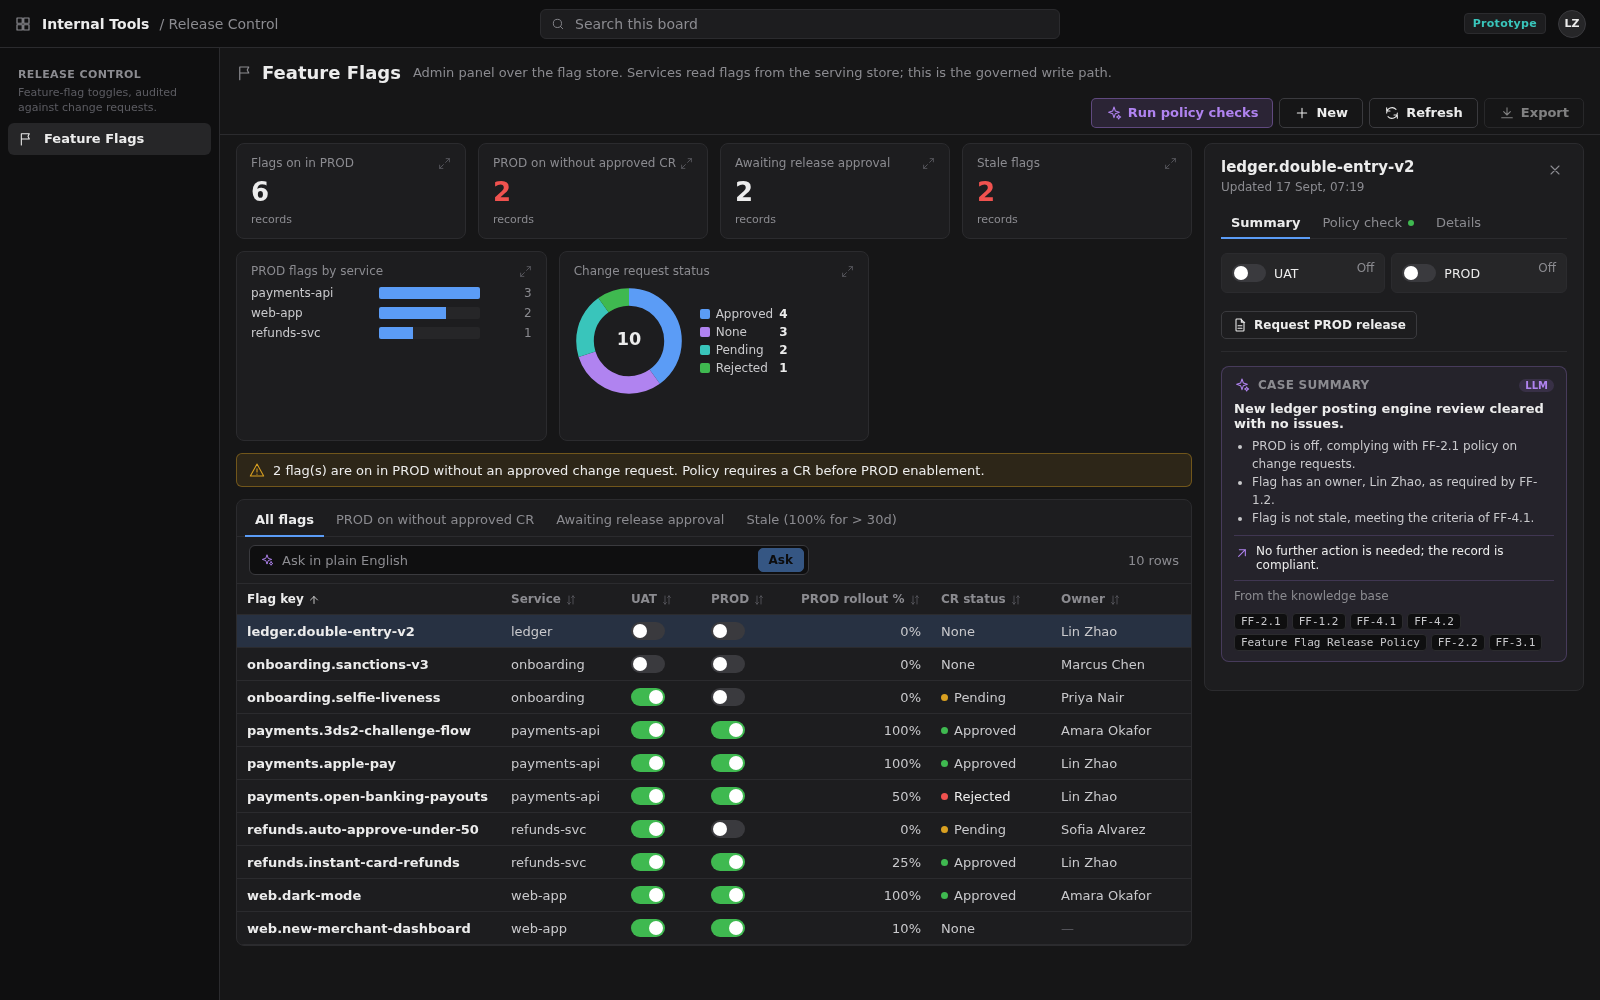
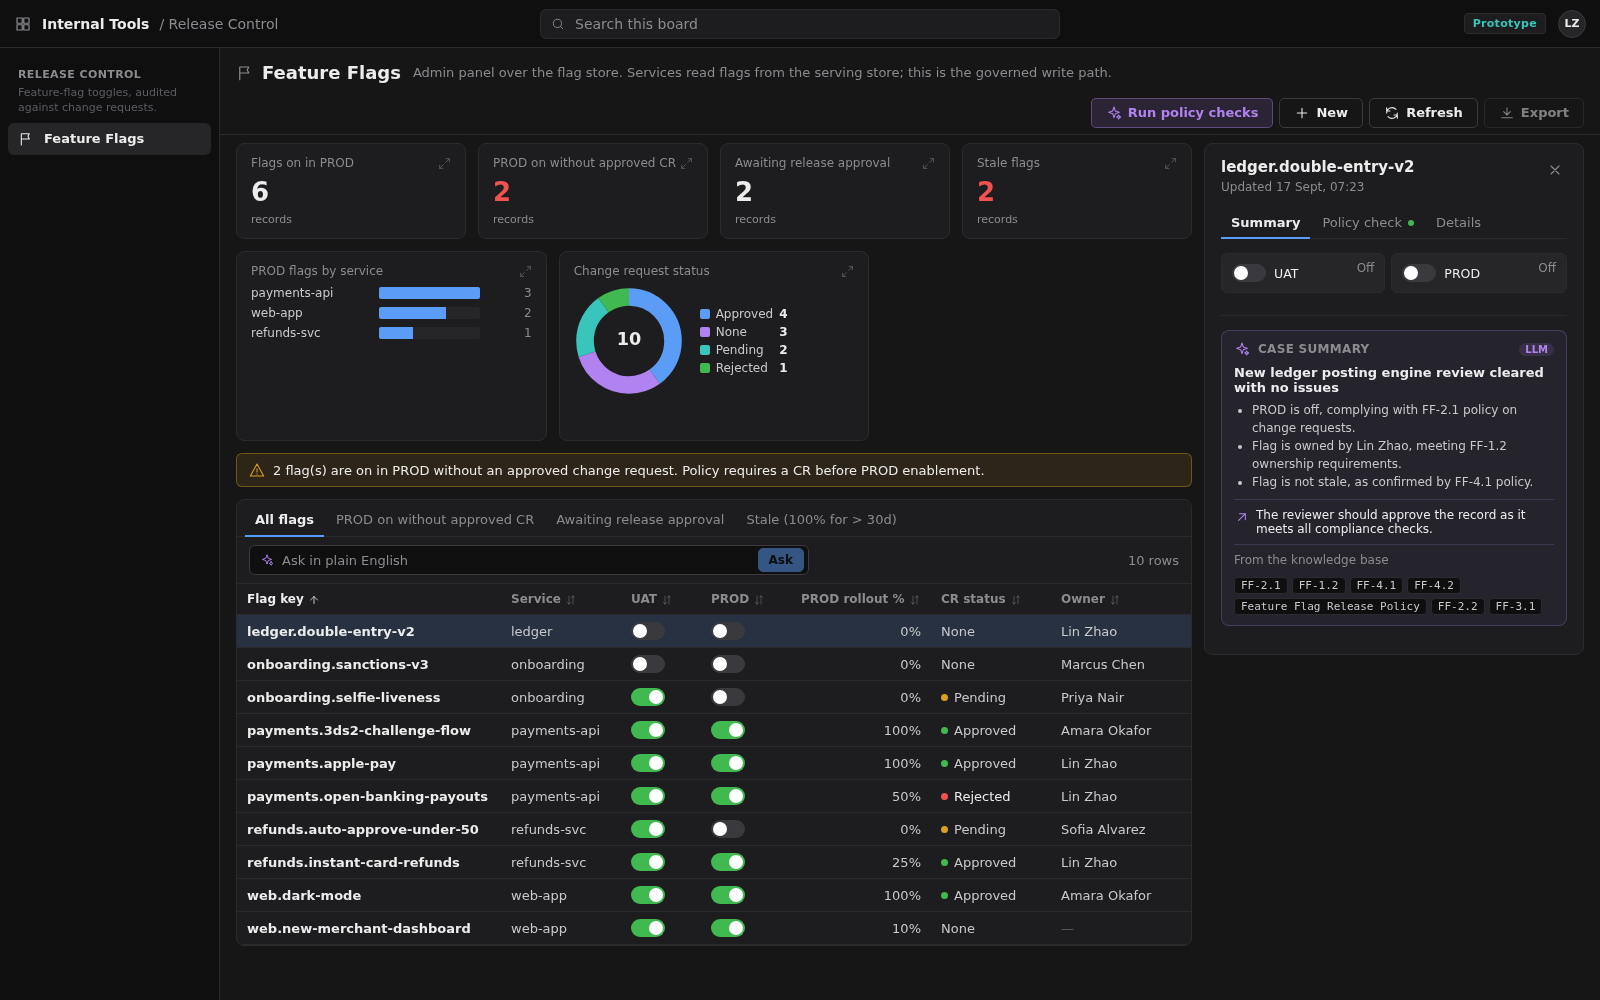
Remove Request PROD release action; CRs originate in change management

Changed region(s): [[0.75, 0.31, 0.9688, 0.651]]

diff --git a/tests/test_platform.py b/tests/test_platform.py
@@ -164,15 +164,17 @@ def test_webhook_action_logs_integration(client):
     assert log[0]["webhook"].endswith("/flag-store/sync") and log[0]["payload"]["title"] == flag["key"]
     review = client.get(f"/api/tools/flags/records/{rid}/review", headers=h("lin")).json()
     assert review["verdict"] == "Flagged" and any(c["clause"] == "FF-2.1" and not c["passed"] for c in review["checks"])
-    # CR approval stays a release-manager decision; engineer cannot approve their own
-    assert client.post("/api/tools/flags/actions/request_release", json={"record_id": rid, "comment": "ship it"}, headers=h("lin")).json()["cr_status"] == "Pending"
-    assert client.post("/api/tools/flags/actions/approve_cr", json={"record_id": rid}, headers=h("lin")).status_code == 403
-    assert client.post("/api/tools/flags/actions/approve_cr", json={"record_id": rid}, headers=h("amara")).json()["cr_status"] == "Approved"
-    review = client.get(f"/api/tools/flags/records/{rid}/review", headers=h("lin")).json()
-    assert all(c["passed"] for c in review["checks"] if c["clause"] == "FF-2.1")
     # kill switch is open to engineers too, but needs a comment
     assert client.post("/api/tools/flags/actions/kill_switch", json={"record_id": rid}, headers=h("lin")).status_code == 400
     assert client.post("/api/tools/flags/actions/kill_switch", json={"record_id": rid, "comment": "rollback"}, headers=h("lin")).json()["prod"] == 0
+    # CRs are raised outside this tool (no request action); approving one here stays a release-manager decision
+    assert "request_release" not in {a["id"] for a in client.get("/api/tools/flags", headers=h("lin")).json()["actions"]}
+    pending = next(r for r in client.get("/api/tools/flags/records?view=all", headers=h("lin")).json() if r["cr_status"] == "Pending")
+    assert client.post("/api/tools/flags/actions/approve_cr", json={"record_id": pending["id"]}, headers=h("lin")).status_code == 403
+    assert client.post("/api/tools/flags/actions/approve_cr", json={"record_id": pending["id"]}, headers=h("amara")).json()["cr_status"] == "Approved"
+    assert client.post("/api/tools/flags/actions/enable_prod", json={"record_id": pending["id"]}, headers=h("lin")).json()["prod"] == 1
+    review = client.get(f"/api/tools/flags/records/{pending['id']}/review", headers=h("lin")).json()
+    assert all(c["passed"] for c in review["checks"] if c["clause"] == "FF-2.1")
 
 
 def test_webhook_payloads_are_signed_with_env_secret_only(client, monkeypatch):
